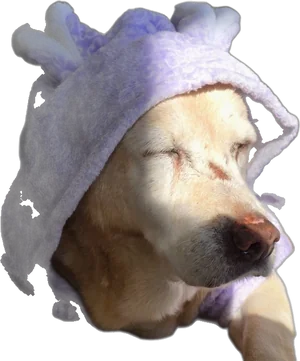
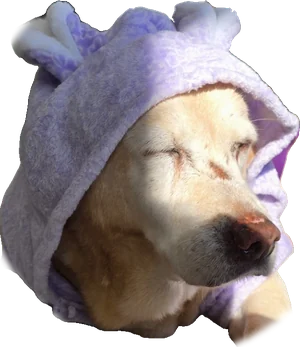
Rostos dos cachorros padronizados, Liza de coelho sem falhas, sem doodles sobrepostos
Claude-Session: https://claude.ai/code/session_01Y63AkRKadhwfSipCk8BwFY

diff --git a/index.html b/index.html
@@ -1058,7 +1058,7 @@ html.a-contraste .servs-trilho .serv{background:#fff!important}
 
 <section class="toolkit" id="ferramentas" aria-labelledby="t-tool"><div class="ponte fita-3" aria-hidden="true"><svg viewBox="0 0 600 170" focusable="false"><use href="#fita"/></svg></div><div class="ponte grande-espiral" aria-hidden="true"><svg viewBox="0 0 79 99" focusable="false"><use href="img/rabiscos.svg#r-espiral" fill="currentColor"/></svg></div>
   <div class="wrap">
-    <div class="cabeca"><h2 id="t-tool">Caixa de ferramentas</h2><span class="nota">o que eu uso no dia a dia</span><div class="desenhar cab-rabisco"><svg class="doodle rabisco r-estrela-pontos" viewBox="0 0 324 136" aria-hidden="true" focusable="false"><use href="img/rabiscos.svg#r-estrela-pontos"/></svg><span class="enfeitinhos " aria-hidden="true"><svg class="mini" viewBox="0 0 73 64" focusable="false"><use href="img/rabiscos.svg#r-florzinha"/></svg></span></div></div>
+    <div class="cabeca"><h2 id="t-tool">Caixa de ferramentas</h2><span class="nota">o que eu uso no dia a dia</span><div class="desenhar cab-rabisco"><svg class="doodle rabisco r-estrela-pontos" viewBox="0 0 324 136" aria-hidden="true" focusable="false"><use href="img/rabiscos.svg#r-estrela-pontos"/></svg></div></div>
     <div class="tool-grade">
       <div class="tool-grupo"><h3>Desenvolvimento</h3><ul class="fitas"><li>HTML</li><li>CSS</li><li>JavaScript</li><li>Git e GitHub</li><li>Validador W3C</li></ul></div>
       <div class="tool-grupo"><h3>Acessibilidade</h3><ul class="fitas"><li>WCAG 2.2</li><li>ABNT NBR 17225</li><li>Leitores de tela (NVDA e TalkBack)</li><li>WAVE</li><li>Lei Brasileira de Inclusão</li></ul></div>
@@ -1107,11 +1107,11 @@ html.a-contraste .servs-trilho .serv{background:#fff!important}
     <div class="anjos">
         <p>E no caminho todo, eu tive companhia. Esses três já não estão aqui, mas fizeram parte da minha história.</p>
         <ul class="anjos-lista">
-          <li><span class="anjo-real"><img class="foto-liza" src="img/princess-rosto.webp" alt="" width="240" height="276" loading="lazy" decoding="async"><svg class="aureola" viewBox="0 0 100 30" aria-hidden="true" focusable="false"><ellipse cx="50" cy="15" rx="40" ry="9" fill="none" stroke="var(--caramelo)" stroke-width="6" filter="url(#lapis-fita)"/><ellipse cx="50" cy="15" rx="40" ry="9" fill="none" stroke="var(--bordo)" stroke-width="1.6" filter="url(#lapis-fita)"/></svg></span><span class="nota">Princess</span><span class="raca">labradora caramelo</span></li>
-          <li><span class="anjo-real"><img class="foto-liza" src="img/scooby-rosto.webp" alt="" width="240" height="269" loading="lazy" decoding="async"><svg class="aureola" viewBox="0 0 100 30" aria-hidden="true" focusable="false"><ellipse cx="50" cy="15" rx="40" ry="9" fill="none" stroke="var(--caramelo)" stroke-width="6" filter="url(#lapis-fita)"/><ellipse cx="50" cy="15" rx="40" ry="9" fill="none" stroke="var(--bordo)" stroke-width="1.6" filter="url(#lapis-fita)"/></svg></span><span class="nota">Scooby</span><span class="raca">labrador chocolate</span></li>
-          <li><span class="anjo-real"><img class="foto-liza" src="img/fiona-rosto.webp" alt="" width="240" height="230" loading="lazy" decoding="async"><svg class="aureola" viewBox="0 0 100 30" aria-hidden="true" focusable="false"><ellipse cx="50" cy="15" rx="40" ry="9" fill="none" stroke="var(--caramelo)" stroke-width="6" filter="url(#lapis-fita)"/><ellipse cx="50" cy="15" rx="40" ry="9" fill="none" stroke="var(--bordo)" stroke-width="1.6" filter="url(#lapis-fita)"/></svg></span><span class="nota">Fiona</span><span class="raca">pastora alemã</span></li>
+          <li><span class="anjo-real"><img class="foto-liza" src="img/princess-rosto.webp" alt="" width="240" height="275" loading="lazy" decoding="async"><svg class="aureola" viewBox="0 0 100 30" aria-hidden="true" focusable="false"><ellipse cx="50" cy="15" rx="40" ry="9" fill="none" stroke="var(--caramelo)" stroke-width="6" filter="url(#lapis-fita)"/><ellipse cx="50" cy="15" rx="40" ry="9" fill="none" stroke="var(--bordo)" stroke-width="1.6" filter="url(#lapis-fita)"/></svg></span><span class="nota">Princess</span><span class="raca">labradora caramelo</span></li>
+          <li><span class="anjo-real"><img class="foto-liza" src="img/scooby-rosto.webp" alt="" width="240" height="242" loading="lazy" decoding="async"><svg class="aureola" viewBox="0 0 100 30" aria-hidden="true" focusable="false"><ellipse cx="50" cy="15" rx="40" ry="9" fill="none" stroke="var(--caramelo)" stroke-width="6" filter="url(#lapis-fita)"/><ellipse cx="50" cy="15" rx="40" ry="9" fill="none" stroke="var(--bordo)" stroke-width="1.6" filter="url(#lapis-fita)"/></svg></span><span class="nota">Scooby</span><span class="raca">labrador chocolate</span></li>
+          <li><span class="anjo-real"><img class="foto-liza" src="img/fiona-rosto.webp" alt="" width="240" height="258" loading="lazy" decoding="async"><svg class="aureola" viewBox="0 0 100 30" aria-hidden="true" focusable="false"><ellipse cx="50" cy="15" rx="40" ry="9" fill="none" stroke="var(--caramelo)" stroke-width="6" filter="url(#lapis-fita)"/><ellipse cx="50" cy="15" rx="40" ry="9" fill="none" stroke="var(--bordo)" stroke-width="1.6" filter="url(#lapis-fita)"/></svg></span><span class="nota">Fiona</span><span class="raca">pastora alemã</span></li>
         </ul>
-        <div class="liza-segue" aria-hidden="true"><span class="liza-mancha"><img class="foto-liza" src="img/liza-foto-coelho.webp" alt="" width="300" height="361" loading="lazy" decoding="async"></span><span class="nota">e a Liza segue aqui comigo</span></div>
+        <div class="liza-segue" aria-hidden="true"><span class="liza-mancha"><img class="foto-liza" src="img/liza-foto-coelho.webp" alt="" width="300" height="347" loading="lazy" decoding="async"></span><span class="nota">e a Liza segue aqui comigo</span></div>
       </div>
   </div>
 </section>
